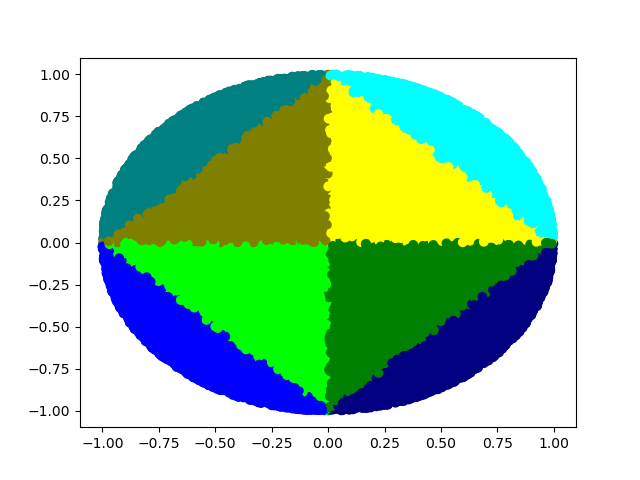
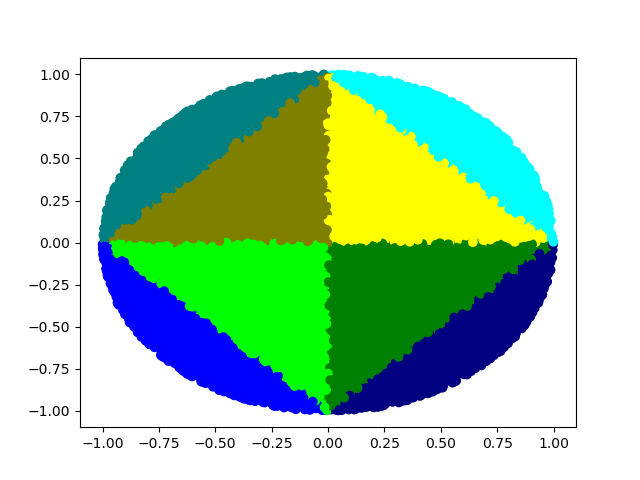
questao4 sucesso

diff --git a/question4/question4.py b/question4/question4.py
@@ -10,40 +10,34 @@ y_train_1step = []
 y_train_2step = []
 y_train_3step = []
 
+step = 0.1
+steps = 10
+samples = 2000
+
 def time_series(n):
     x = math.sin(n + math.sin(n)**2)
     return x
 
-for i in range(0,2000):
-    x = [time_series(i - 1), time_series(i - 2), time_series(i - 3), time_series(i - 4), time_series(i - 5)]
-    x_train.append(x)
-    
-    y1 = time_series(i + 1)
-    y_train_1step.append(y1)
-    y2 = time_series(i + 2)
-    y_train_2step.append(y2)
-    y3 = time_series(i + 3)
-    y_train_3step.append(y3)
+def generate_data(step, k, samples):
+    x = []
+    for i in range(0, samples):
+        for j in range(1, k):
+                x.append(time_series(i*step - j*step))
+        x_train.append(x)
 
+        y_train_1step.append(time_series(i*step + step))
+        y_train_2step.append(time_series(i*step + 2*step))
+        y_train_3step.append(time_series(i*step + 3*step))
 
+        x = []
 
+generate_data(step, steps, samples)
 
-# #opening csv
-# with open('dados.csv',newline='') as csvfile:
-#     reader = csv.DictReader(csvfile)
-#     line = 0
-#     for row in reader:
-#         if line > 1:
-#             xrow = float(row['x'])
-#             y_row = float(row['y'])
-#             x_train.append(xrow)
-#             y_train.append(y_row)
-#         line += 1
 
 data_x = np.asarray(x_train)
-# data_y = np.asarray(y_train_1step)
+data_y = np.asarray(y_train_1step)
 # data_y = np.asarray(y_train_2step)
-data_y = np.asarray(y_train_3step)
+# data_y = np.asarray(y_train_3step)
 
 x_train, x_val = np.split(data_x, 2)
 y_train, y_val = np.split(data_y, 2)
@@ -59,18 +53,9 @@ model.add(keras.layers.Dense(1, activation=tf.nn.tanh))
 
 model.compile(optimizer='adam',loss='mse', metrics=['mse'])
 
-history = model.fit(x_train, y_train,  epochs=100, validation_data = (x_val, y_val))
+history = model.fit(x_train, y_train,  epochs=30, validation_data = (x_val, y_val))# "Loss"
 
-
-#  "Accuracy"
-# plt.plot(history.history['accuracy'])
-# plt.plot(history.history['val_accuracy'])
-# plt.title('model accuracy')
-# plt.ylabel('accuracy')
-# plt.xlabel('epoch')
-# plt.legend(['train', 'validation'], loc='upper left')
-# plt.show()
-# "Loss"
+#loss
 plt.plot(history.history['mse'])
 plt.plot(history.history['val_mse'])
 plt.title('model loss')
@@ -79,6 +64,17 @@ plt.xlabel('epoch')
 plt.legend(['train', 'validation'], loc='upper left')
 plt.show()
 
-# validation_arr = model.evaluate(x_val, y_val)
-# print("Validation loss: " + str(validation_arr[0]) + "\nValidation accuracy: " + str(validation_arr[1]))
+real = []
+predito = []
 
+predicted = model.predict(x_val)
+rangex = int(12/step)
+for j in range(rangex):
+    real.append(y_val[j])
+    predito.append(predicted[j])
+
+plt.plot(real) 
+plt.plot(predito) 
+plt.title('Predição vs real') 
+plt.legend(['real', 'predição'], loc='upper left') 
+plt.show()

diff --git a/question3/question3.py b/question3/question3.py
@@ -7,9 +7,10 @@ import tensorflow as tf
 import matplotlib
 import matplotlib.pyplot as plt
 import random 
-import numpy as np
 import seaborn as sn
 import pandas as pd
+from sklearn.model_selection import train_test_split
+from sklearn.metrics import classification_report, confusion_matrix
 
 
 def isInsideCircle(x, y):
@@ -45,7 +46,7 @@ data_y = []
 count = np.zeros(15)
 
 
-while (len(data_x) < 50000):
+while (len(data_x) < 20000):
   pointX = random.uniform(-1,1)
   pointY = random.uniform(-1,1)
 
@@ -91,6 +92,9 @@ data_y = np.array(data_y)
 x_train, x_val = np.split(data_x, 2)
 y_train, y_val = np.split(data_y, 2)
 
+data_X, x_test, data_Y, y_test = train_test_split(data_x, data_y, test_size=0.20, random_state=42)
+x_train, x_val, y_train, y_val = train_test_split(data_X, data_Y, test_size=0.25, random_state=42)
+
 model = keras.models.Sequential()
 
 model.add(keras.layers.Dense(2))
@@ -101,7 +105,7 @@ model.add(keras.layers.Dense(8, activation=tf.nn.softmax))
 
 model.compile(optimizer='adam',loss='sparse_categorical_crossentropy', metrics=['accuracy'])
 
-history = model.fit(x_train, y_train, epochs=100, validation_data = (x_val, y_val))
+history = model.fit(x_train, y_train, epochs=50, validation_data = (x_val, y_val))
 
 # validation_arr = model.evaluate(np.array([[-0.01,-0.2]]), np.array([2]))
 # print("Validation loss: " + str(validation_arr[0]) + "\nValidation accuracy: " + str(validation_arr[1]))
@@ -123,18 +127,27 @@ plt.legend(['train', 'validation'], loc='upper left')
 plt.show()
 
 
-array = [[1539, 3,    0,   13,   40,    0,    0,    0],
- [   1, 1600,    6,    0,    0,    3,    0,    0],
- [   0,    0, 1472,    3,    0,    0,   27,    0],
- [   0,    0,    2, 1591,    1,    0,    0,   32],
- [   4,    0,    0,    0,  888,    0,    0,    0],
- [   0,   18,    0,    0,    0,  925,    0,    0],
- [   0,    0,    1,    0,    0,    0,  883,    0],
- [   0,    0,    0,    9,    0,    0,    0,  939]]
+#Pred vs real
+prediction=model.predict_classes(x_test)
 
-df_cm = pd.DataFrame(array, range(8), range(8))
-# plt.figure(figsize=(10,7))
-sn.set(font_scale=1.4) # for label size
-sn.heatmap(df_cm, annot=True, annot_kws={"size": 8}) # font size
+colors = ["#FFFF00","#808000","#00FF00","#008000","#00FFFF","#008080","#0000FF","#000080"]
+
+data = np.array(x_test)
+x, y = data.T
+color_indices = prediction
+
+colormap = matplotlib.colors.ListedColormap(colors)
+
+plt.scatter(x, y, c=color_indices, cmap=colormap)
+plt.show()
+
+cm = confusion_matrix(y_test, prediction)
+
+print(cm)
+
+
+df_cm = pd.DataFrame(cm, range(8), range(8))
+plt.figure(figsize=(10,7))
+sn.heatmap(df_cm, annot=True, cmap='Blues', fmt='g') # font size
 
 plt.show()

diff --git a/question2b/questao2b.py b/question2b/questao2b.py
@@ -28,12 +28,11 @@ model = keras.models.Sequential()
 
 model.add(keras.layers.Dense(1))
 model.add(keras.layers.Dense(32, activation=tf.nn.tanh))
-model.add(keras.layers.Dense(32, activation=tf.nn.tanh))
-model.add(keras.layers.Dense(32, activation=tf.nn.tanh))
-model.add(keras.layers.Dense(32, activation=tf.nn.tanh))
-model.add(keras.layers.Dense(32, activation=tf.nn.tanh))
-model.add(keras.layers.Dense(32, activation=tf.nn.tanh))
-model.add(keras.layers.Dense(1, activation=tf.nn.tanh))
+model.add(keras.layers.Dense(16, activation=tf.nn.tanh))
+model.add(keras.layers.Dense(8, activation=tf.nn.tanh))
+model.add(keras.layers.Dense(4, activation=tf.nn.tanh))
+model.add(keras.layers.Dense(2, activation=tf.nn.tanh))
+model.add(keras.layers.Dense(1, activation=tf.keras.activations.linear))
 
 model.compile(optimizer='SGD',loss='mse', metrics=['mse'])
 

diff --git a/question1/questao1.py b/question1/questao1.py
@@ -55,3 +55,4 @@ plt.show()
 # print("Validation loss: " + str(validation_arr[0]) + "\nValidation accuracy: " + str(validation_arr[1]))
 
 
+
